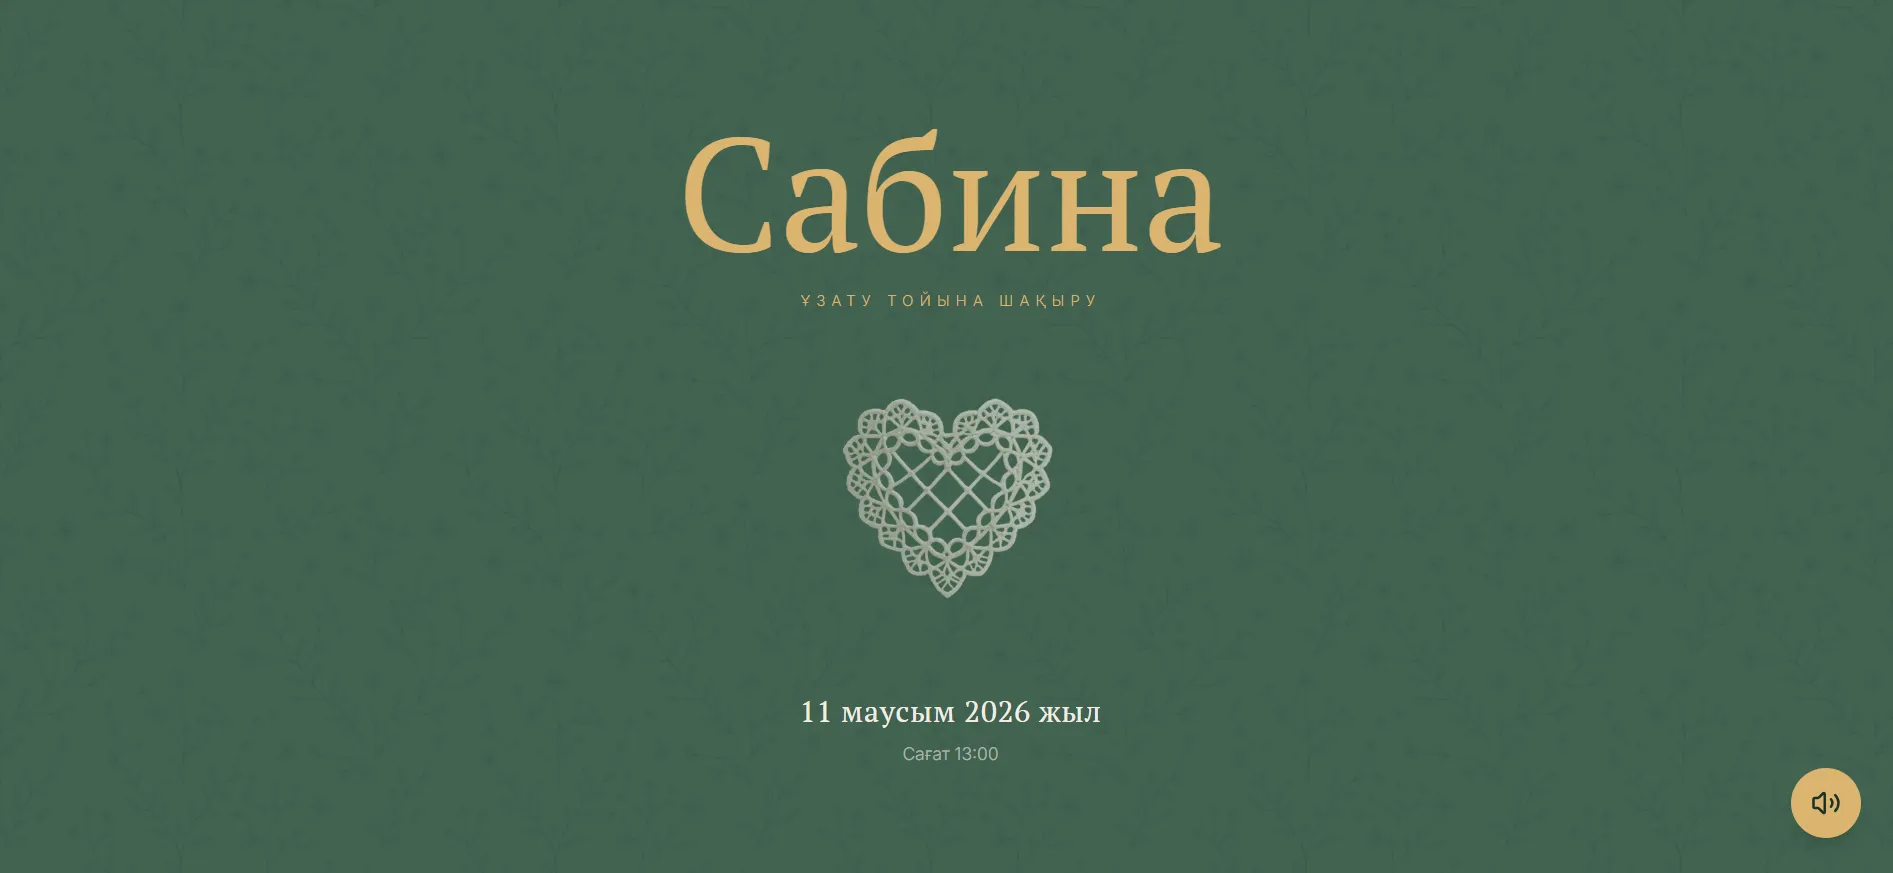
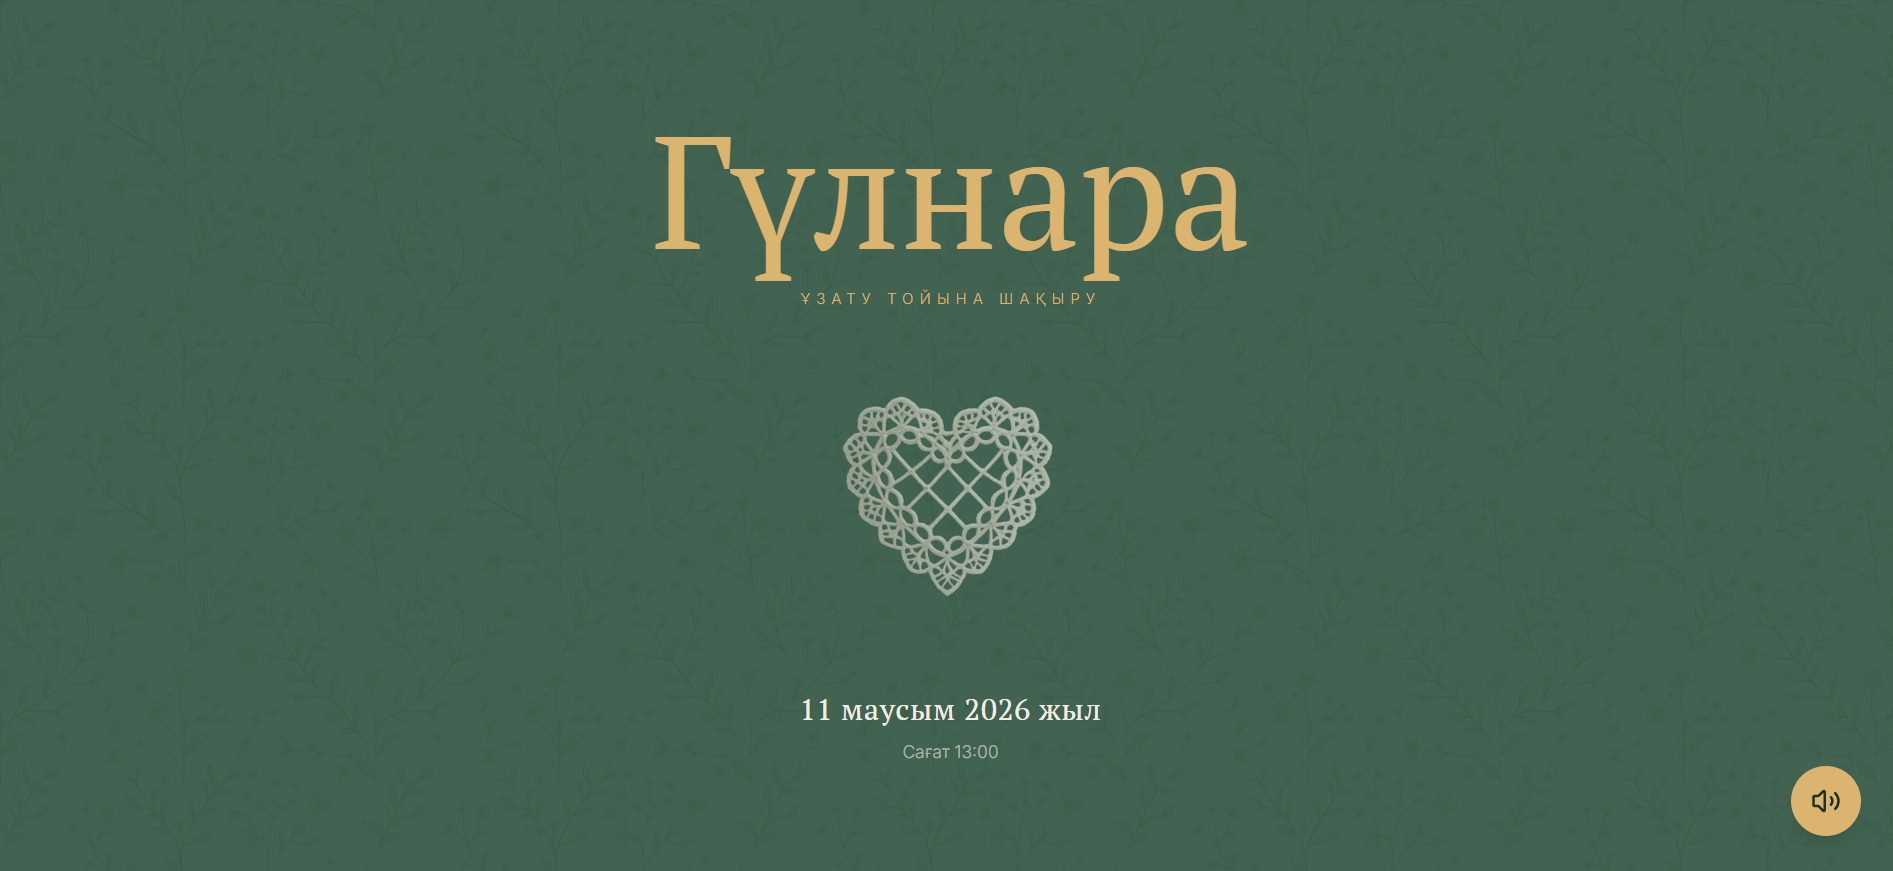
first commit

diff --git a/src/data/templates.ts b/src/data/templates.ts
@@ -28,6 +28,8 @@ import darkBlue from "../assets/darkBlue.webp";
 import darkBlueDesktop from "../assets/darkBlueDesktop.webp";
 import graduation from "../assets/graduation.webp";
 import graduationDesktop from "../assets/graduationDesktop.webp";
+import flight from "../assets/flight.webp";
+import flightDesktop from "../assets/flightDesktop.webp";
 
 
 
@@ -251,6 +253,19 @@ export const templates: Template[] = [
     link: "https://graduation-party.netlify.app/",
     featuresKeys: [
       ...standardFeatures
+    ],
+  }, 
+  {
+    id: "16",
+    nameKey: "templates.16.name",
+    descriptionKey: "templates.16.description",
+    price: 35,
+    image: flight,
+    imageDesktop: flightDesktop,
+    link: "https://flight-to-wedding.netlify.app/",
+    featuresKeys: [
+      ...standardFeatures,
+      "template.feature.music"
     ],
   }
 ];
